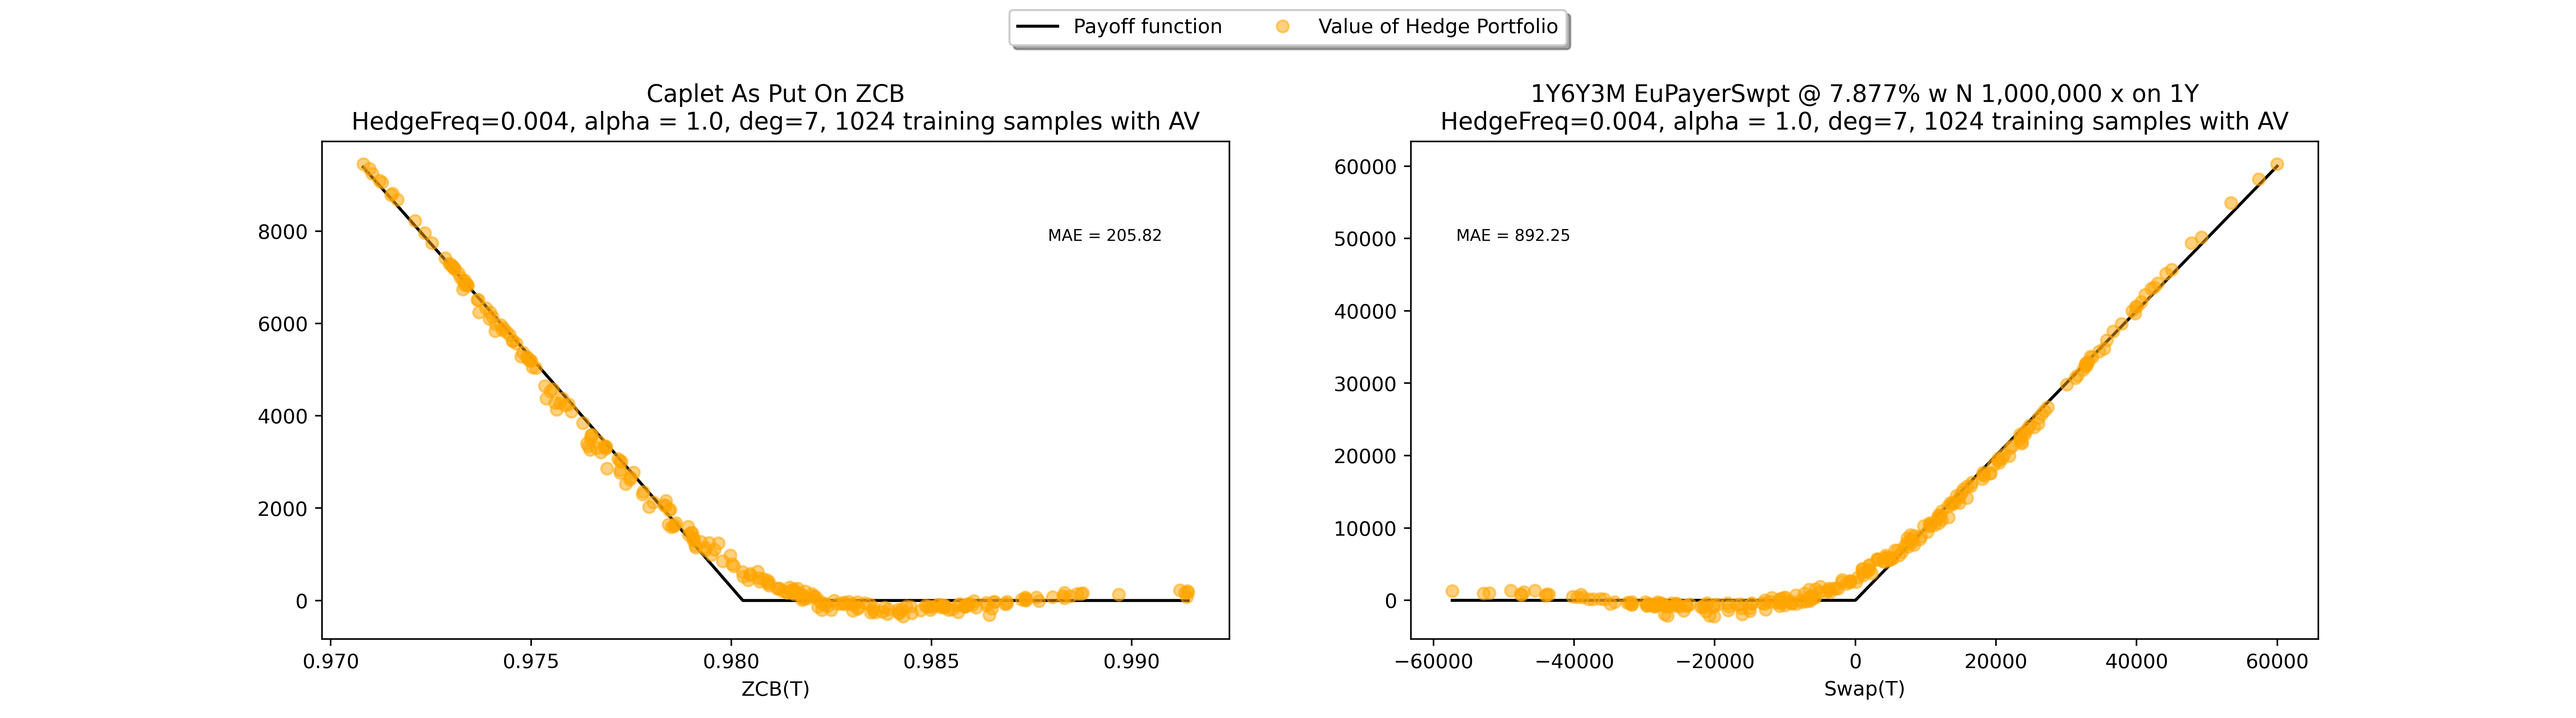
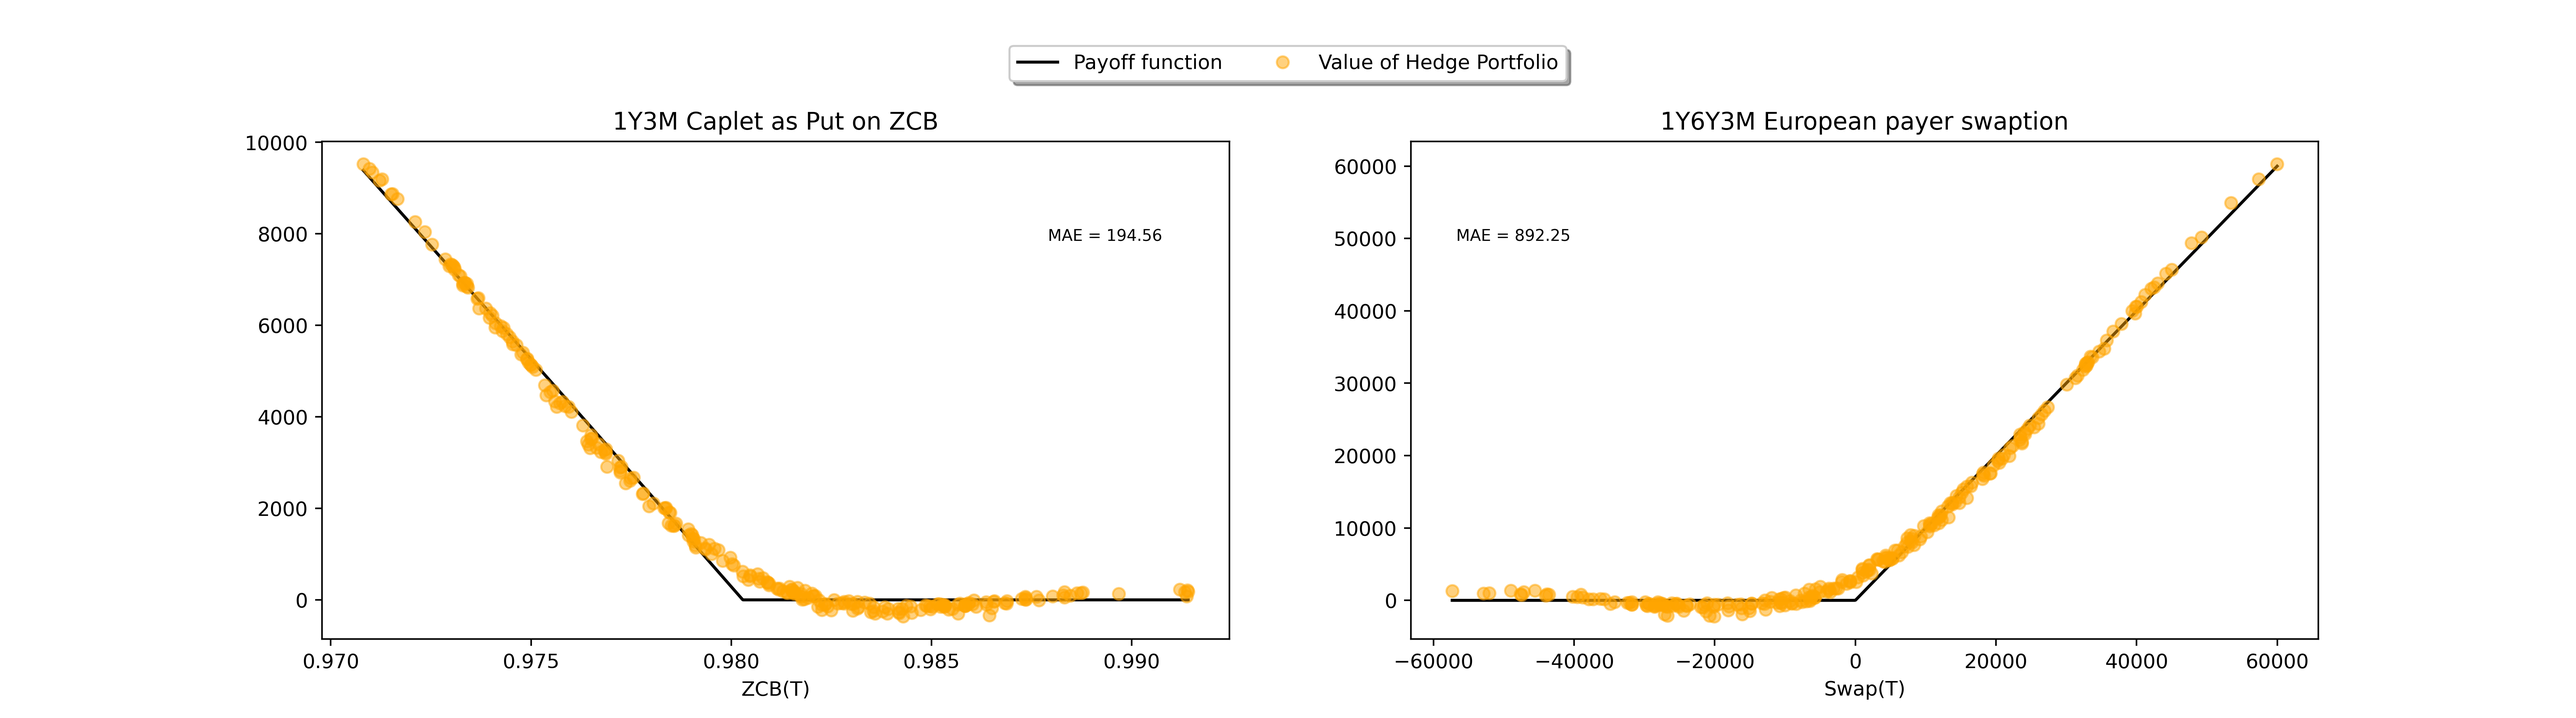
Convergence hedge plot updates

diff --git a/application/experiments/vasicek/hedge_experiments/DiffReg/vasicek_AAD_DiffReg_delta_hedge_capletzcb_x_eurswpt.py b/application/experiments/vasicek/hedge_experiments/DiffReg/vasicek_AAD_DiffReg_delta_hedge_capletzcb_x_eurswpt.py
@@ -168,8 +168,7 @@ if __name__ == '__main__':
     ax[0].set_position([box.x0, box.y0, box.width, box.height * 0.9])
 
     # Title
-    ax[0].set_title(
-        prd.name + f'\nHedgeFreq={dTL[1]:.4g}, alpha = {alpha}, deg={deg}, {N_train} training samples ' + av_str)
+    ax[0].set_title("1Y3M Caplet as Put on ZCB")
 
 
 
@@ -313,14 +312,13 @@ if __name__ == '__main__':
     ax[1].set_position([box.x0, box.y0, box.width, box.height * 0.9])
 
     # Title
-    ax[1].set_title(
-        prd.name + f'\nHedgeFreq={dTL[1]:.4g}, alpha = {alpha}, deg={deg}, {N_train} training samples ' + av_str)
+    ax[1].set_title("1Y6Y3M European payer swaption")
 
     # Legend
     handles, labels = fig.gca().get_legend_handles_labels()
     by_label = dict(zip(labels, handles))
     fig.legend(by_label.values(), by_label.keys(), loc='upper center', ncol=2, fancybox=True, shadow=True,
-               bbox_to_anchor=(0.5, 1.0))
+               bbox_to_anchor=(0.5, 0.95))
 
-    #plt.savefig(get_plot_path('vasicek_AAD_DiffReg_delta_hedge_capletzcb_x_eurswpt.png'), dpi=400)
+    plt.savefig(get_plot_path('vasicek_AAD_DiffReg_delta_hedge_capletzcb_x_eurswpt.png'), dpi=400)
     plt.show()
